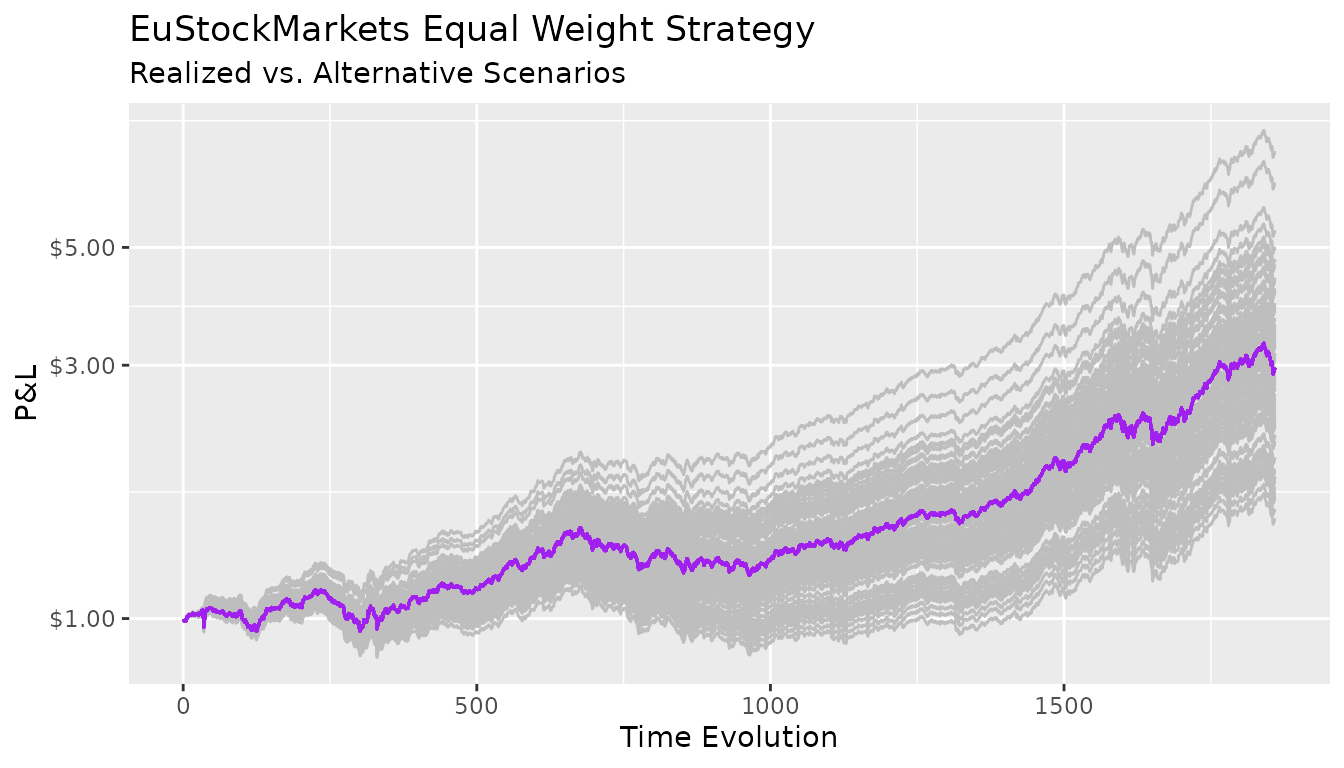
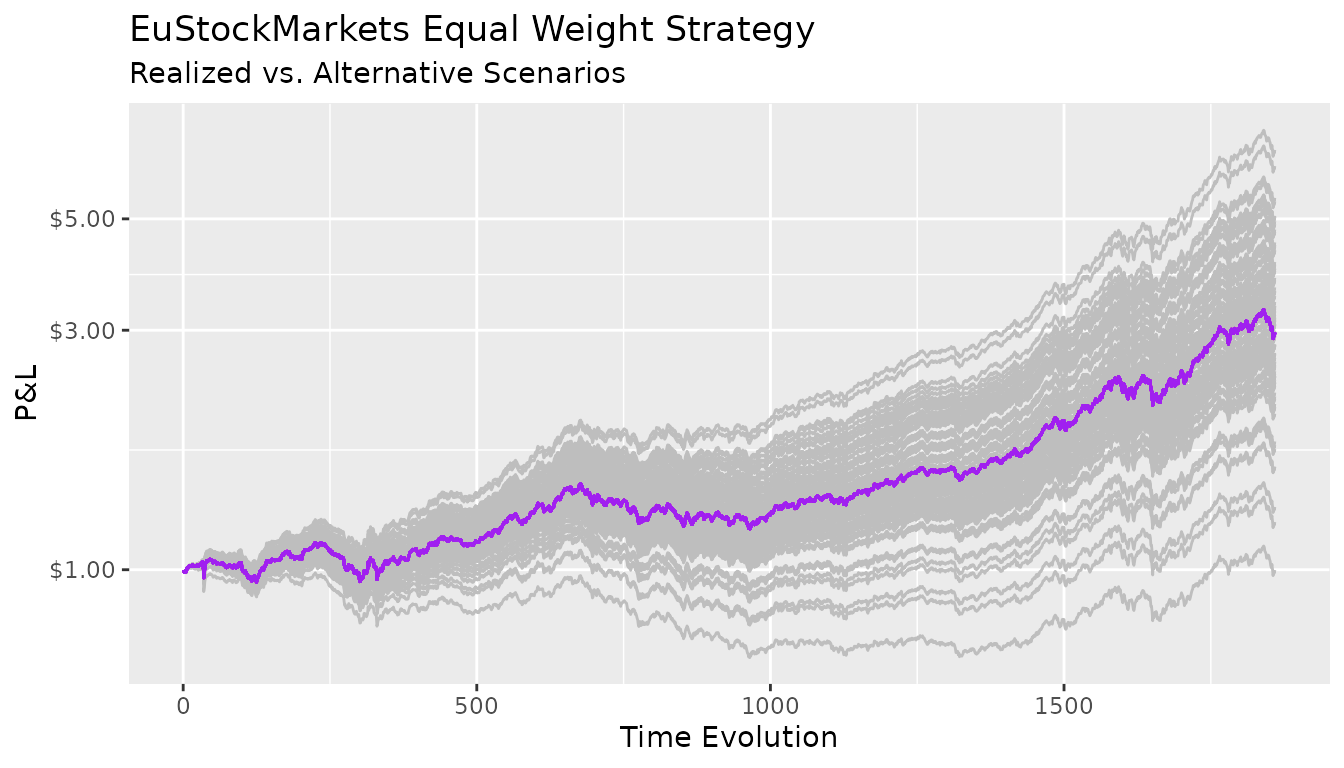
Built site for cma: 0.0.9000@7d0ad4c

diff --git a/articles/panic_copula.html b/articles/panic_copula.html
@@ -92,10 +92,57 @@
 
     
     
-<p>As in <a href="https://papers.ssrn.com/sol3/papers.cfm?abstract_id=1752702"><em>A New Breed for Copulas for Risk and Portfolio Management</em></a>, <code><a href="../reference/panic_copula.html">panic_copula()</a></code> models the market as a mixture of calm vs. panic environments.</p>
-<p>The “calm” market happens most of the time, while the “panic” events are triggered endogenously for a brief period.</p>
+<p>As in <a href="https://papers.ssrn.com/sol3/papers.cfm?abstract_id=1752702"><em>A New Breed for Copulas for Risk and Portfolio Management</em></a>, the CMA package offers tools to model events of “panic”.</p>
+<p>The <code>EuStockMarkets</code> dataset is used for this vignette.</p>
 <div class="sourceCode" id="cb1"><pre class="downlit sourceCode r">
-<code class="sourceCode R"><span class="kw"><a href="https://rdrr.io/r/base/library.html">library</a></span><span class="op">(</span><span class="va">cma</span><span class="op">)</span></code></pre></div>
+<code class="sourceCode R"><span class="kw"><a href="https://rdrr.io/r/base/library.html">library</a></span><span class="op">(</span><span class="va">cma</span><span class="op">)</span>
+<span class="kw"><a href="https://rdrr.io/r/base/library.html">library</a></span><span class="op">(</span><span class="va"><a href="https://dplyr.tidyverse.org">dplyr</a></span>, warn.conflicts <span class="op">=</span> <span class="cn">FALSE</span><span class="op">)</span>
+
+<span class="co"># stationarity - "invariance"</span>
+<span class="va">x</span> <span class="op">&lt;-</span> <span class="fu"><a href="https://rdrr.io/r/base/matrix.html">matrix</a></span><span class="op">(</span><span class="fu"><a href="https://rdrr.io/r/base/diff.html">diff</a></span><span class="op">(</span><span class="fu"><a href="https://rdrr.io/r/base/Log.html">log</a></span><span class="op">(</span><span class="va">EuStockMarkets</span><span class="op">)</span><span class="op">)</span>, ncol <span class="op">=</span> <span class="fl">4</span><span class="op">)</span>
+<span class="fu"><a href="https://rdrr.io/r/base/colnames.html">colnames</a></span><span class="op">(</span><span class="va">x</span><span class="op">)</span> <span class="op">&lt;-</span> <span class="fu"><a href="https://rdrr.io/r/base/colnames.html">colnames</a></span><span class="op">(</span><span class="va">EuStockMarkets</span><span class="op">)</span>
+<span class="fu"><a href="https://rdrr.io/r/utils/head.html">head</a></span><span class="op">(</span><span class="va">x</span><span class="op">)</span>
+<span class="co">#&gt;               DAX          SMI          CAC         FTSE</span>
+<span class="co">#&gt; [1,] -0.009326550  0.006178360 -0.012658756  0.006770286</span>
+<span class="co">#&gt; [2,] -0.004422175 -0.005880448 -0.018740638 -0.004889587</span>
+<span class="co">#&gt; [3,]  0.009003794  0.003271184 -0.005779182  0.009027020</span>
+<span class="co">#&gt; [4,] -0.001778217  0.001483372  0.008743353  0.005771847</span>
+<span class="co">#&gt; [5,] -0.004676712 -0.008933417 -0.005120160 -0.007230164</span>
+<span class="co">#&gt; [6,]  0.012427042  0.006737244  0.011714353  0.008517217</span></code></pre></div>
+<p>With <code><a href="../reference/panic_copula.html">panic_copula()</a></code> it’s possible to build a mixture of calm vs. panic environments. The “calm” market happens most of the time, while a “panic” event is triggered endogenously for a brief period (say 2% of the sample).</p>
+<div class="sourceCode" id="cb2"><pre class="downlit sourceCode r">
+<code class="sourceCode R"><span class="va">panic</span> <span class="op">&lt;-</span> <span class="fu"><a href="../reference/panic_copula.html">panic_copula</a></span><span class="op">(</span><span class="va">x</span>, n <span class="op">=</span> <span class="fl">50000</span>, panic_cor <span class="op">=</span> <span class="fl">0.97</span>, panic_prob <span class="op">=</span> <span class="fl">0.02</span>, dist <span class="op">=</span> <span class="st">"normal"</span><span class="op">)</span>
+<span class="va">calm</span>  <span class="op">&lt;-</span> <span class="fu"><a href="../reference/panic_copula.html">panic_copula</a></span><span class="op">(</span><span class="va">x</span>, n <span class="op">=</span> <span class="fl">50000</span>, panic_cor <span class="op">=</span> <span class="fl">0.00</span>, panic_prob <span class="op">=</span> <span class="fl">0.00</span>, dist <span class="op">=</span> <span class="st">"normal"</span><span class="op">)</span></code></pre></div>
+<p>The <code>panic_cor</code> argument defines the average correlation when the panic is triggered, <code>panic_cor</code> the average correlation for those events and <code>dist</code> allows the user to choose between the normal or the student-t distribution.</p>
+<p>For simplicity, assume an equal-weight strategy:</p>
+<div class="sourceCode" id="cb3"><pre class="downlit sourceCode r">
+<code class="sourceCode R"><span class="co"># Equal-Weight Portfolio Under the Calm Market</span>
+<span class="va">pnl_panic</span> <span class="op">&lt;-</span> <span class="fu">tibble</span><span class="fu">::</span><span class="fu"><a href="https://tibble.tidyverse.org/reference/tibble.html">tibble</a></span><span class="op">(</span>
+  pnl_panic <span class="op">=</span> <span class="fu"><a href="https://rdrr.io/r/base/matrix.html">as.matrix</a></span><span class="op">(</span><span class="va">panic</span><span class="op">$</span><span class="va">simulation</span><span class="op">)</span> <span class="op">%*%</span> <span class="fu"><a href="https://rdrr.io/r/base/rep.html">rep</a></span><span class="op">(</span><span class="fl">0.25</span>, <span class="fl">4</span><span class="op">)</span>
+<span class="op">)</span>
+
+<span class="co"># Equal-Weight Portgolio Under the Panic Market</span>
+<span class="va">pnl_calm</span> <span class="op">&lt;-</span> <span class="fu">tibble</span><span class="fu">::</span><span class="fu"><a href="https://tibble.tidyverse.org/reference/tibble.html">tibble</a></span><span class="op">(</span>
+  pnl_calm <span class="op">=</span> <span class="fu"><a href="https://rdrr.io/r/base/matrix.html">as.matrix</a></span><span class="op">(</span><span class="va">calm</span><span class="op">$</span><span class="va">simulation</span><span class="op">)</span> <span class="op">%*%</span> <span class="fu"><a href="https://rdrr.io/r/base/rep.html">rep</a></span><span class="op">(</span><span class="fl">0.25</span>, <span class="fl">4</span><span class="op">)</span>
+<span class="op">)</span></code></pre></div>
+<p>The P&amp;L can be seen with <code><a href="../reference/plot_panic_distribution.html">plot_panic_distribution()</a></code>:</p>
+<div class="sourceCode" id="cb4"><pre class="downlit sourceCode r">
+<code class="sourceCode R"><span class="co"># PnL under the Panic Regime</span>
+<span class="fu"><a href="../reference/plot_panic_distribution.html">plot_panic_distribution</a></span><span class="op">(</span><span class="va">pnl_panic</span>, <span class="va">panic</span><span class="op">$</span><span class="va">p</span>, breaks <span class="op">=</span> <span class="fl">200</span><span class="op">)</span></code></pre></div>
+<p><img src="panic_copula_files/figure-html/unnamed-chunk-4-1.png" width="672" style="display: block; margin: auto;"></p>
+<p>The marginal distribution shows an agglomeration from probability mass around <code>-2%</code>, which is a direct consequence of the panic being instated.</p>
+<p>The impact of a panic in the portfolio main statistics can be seen with help of <code>ggplot2</code>:</p>
+<div class="sourceCode" id="cb5"><pre class="downlit sourceCode r">
+<code class="sourceCode R"><span class="va">stats_panic</span> <span class="op">&lt;-</span> <span class="fu"><a href="../reference/empirical_stats.html">empirical_stats</a></span><span class="op">(</span><span class="va">pnl_panic</span><span class="op">)</span>
+<span class="va">stats_calm</span>  <span class="op">&lt;-</span> <span class="fu"><a href="../reference/empirical_stats.html">empirical_stats</a></span><span class="op">(</span><span class="va">pnl_calm</span><span class="op">)</span>
+
+<span class="fu"><a href="https://dplyr.tidyverse.org/reference/bind.html">bind_rows</a></span><span class="op">(</span><span class="va">stats_panic</span>, <span class="va">stats_calm</span><span class="op">)</span> |&gt; 
+  <span class="fu">ggplot2</span><span class="fu">::</span><span class="fu"><a href="https://ggplot2.tidyverse.org/reference/ggplot.html">ggplot</a></span><span class="op">(</span><span class="fu">ggplot2</span><span class="fu">::</span><span class="fu"><a href="https://ggplot2.tidyverse.org/reference/aes.html">aes</a></span><span class="op">(</span>x <span class="op">=</span> <span class="va">stat</span>, y <span class="op">=</span> <span class="va">value</span>, fill <span class="op">=</span> <span class="va">name</span><span class="op">)</span><span class="op">)</span> <span class="op">+</span> 
+  <span class="fu">ggplot2</span><span class="fu">::</span><span class="fu"><a href="https://ggplot2.tidyverse.org/reference/geom_bar.html">geom_col</a></span><span class="op">(</span>position <span class="op">=</span> <span class="st">"dodge"</span><span class="op">)</span> <span class="op">+</span>
+  <span class="fu">ggplot2</span><span class="fu">::</span><span class="fu"><a href="https://ggplot2.tidyverse.org/reference/facet_wrap.html">facet_wrap</a></span><span class="op">(</span><span class="op">~</span> <span class="va">stat</span>, scales <span class="op">=</span> <span class="st">"free"</span><span class="op">)</span> <span class="op">+</span> 
+  <span class="fu">ggplot2</span><span class="fu">::</span><span class="fu"><a href="https://ggplot2.tidyverse.org/reference/labs.html">labs</a></span><span class="op">(</span>x <span class="op">=</span> <span class="cn">NULL</span>, y <span class="op">=</span> <span class="cn">NULL</span>, fill <span class="op">=</span> <span class="st">"regime"</span><span class="op">)</span></code></pre></div>
+<p><img src="panic_copula_files/figure-html/unnamed-chunk-5-1.png" width="672" style="display: block; margin: auto;"></p>
+<p>The mean and the volatility doesn’t change, but the skewness, kurtosis, VaR and CVaR increases for markets that operate under mixture regimes.</p>
   </div>
 
   <div class="col-md-3 hidden-xs hidden-sm" id="pkgdown-sidebar">
